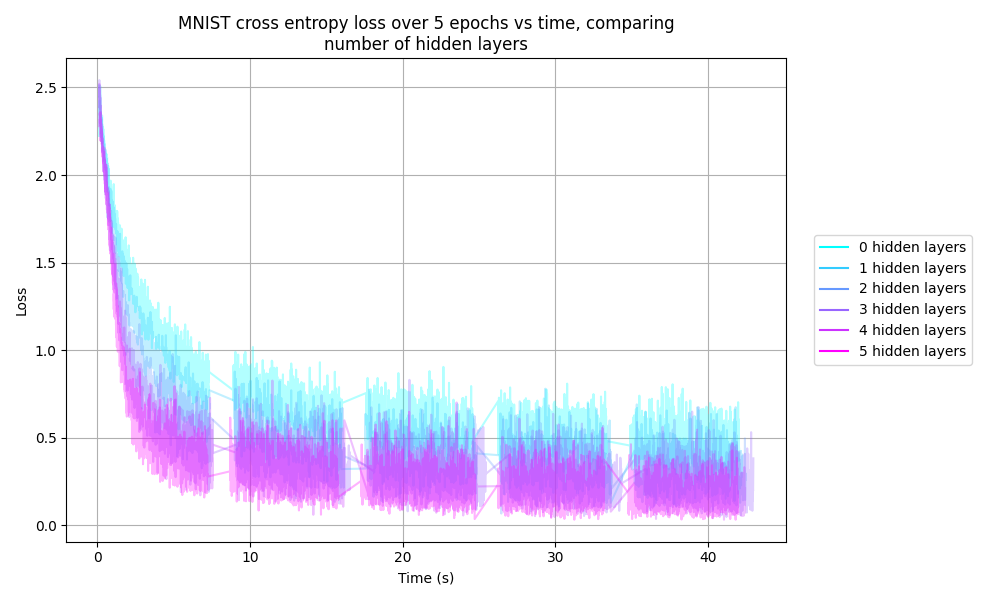
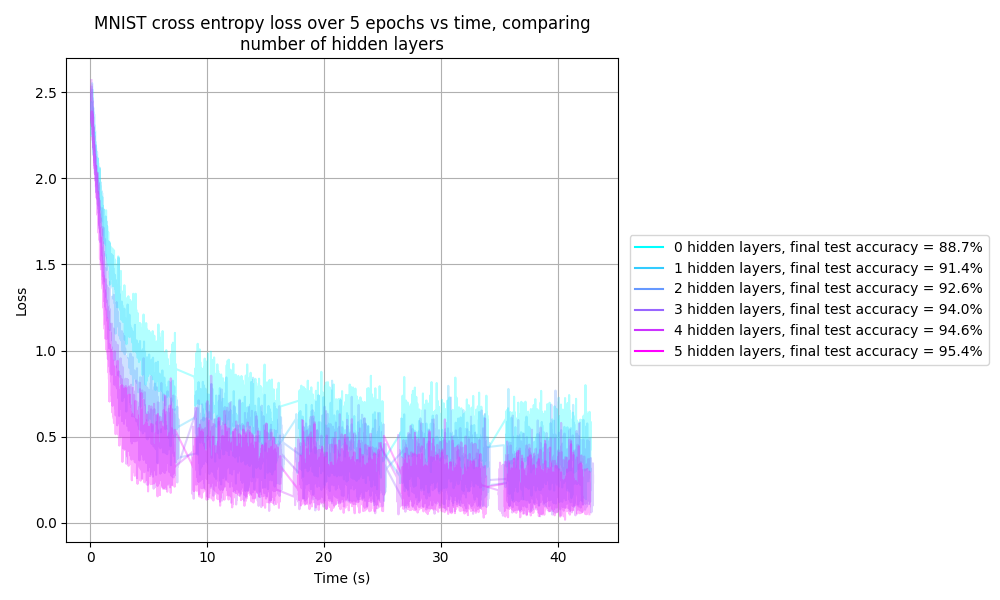
Specify final test accuracy in legend labels

diff --git a/scripts/course_4_ml/assignment/compare_momentum.py b/scripts/course_4_ml/assignment/compare_momentum.py
@@ -11,7 +11,6 @@ if __name__ == "__main__":
     program_timer = util.Timer(name="Full program")
     momentum_list = np.arange(0, 1, 0.2)
     loss_dict = dict()
-    acc_dict = dict()
     for momentum in momentum_list:
         mlp = nn.Mlp(
             input_dim=28*28,
@@ -52,18 +51,11 @@ if __name__ == "__main__":
             timer.print_time_taken()
 
         loss_dict[momentum] = [time_list, loss_list]
-        acc_dict[momentum] = acc
 
     cp = plotting.ColourPicker(len(momentum_list), cyclic=False)
     line_list = [
-        plotting.Line(
-            *loss_dict[k],
-            color=cp(i),
-            label="Momentum = %.2f, final test accuracy = %.1f%%"
-            % (k, acc_dict[k]),
-            alpha=0.3,
-        )
-        for i, k in enumerate(momentum_list)
+        plotting.Line(*xy, c=cp(i), label="Momentum = %.2f" % m, alpha=0.3)
+        for i, [m, xy] in enumerate(sorted(loss_dict.items()))
     ]
     plotting.plot(
         *line_list,
